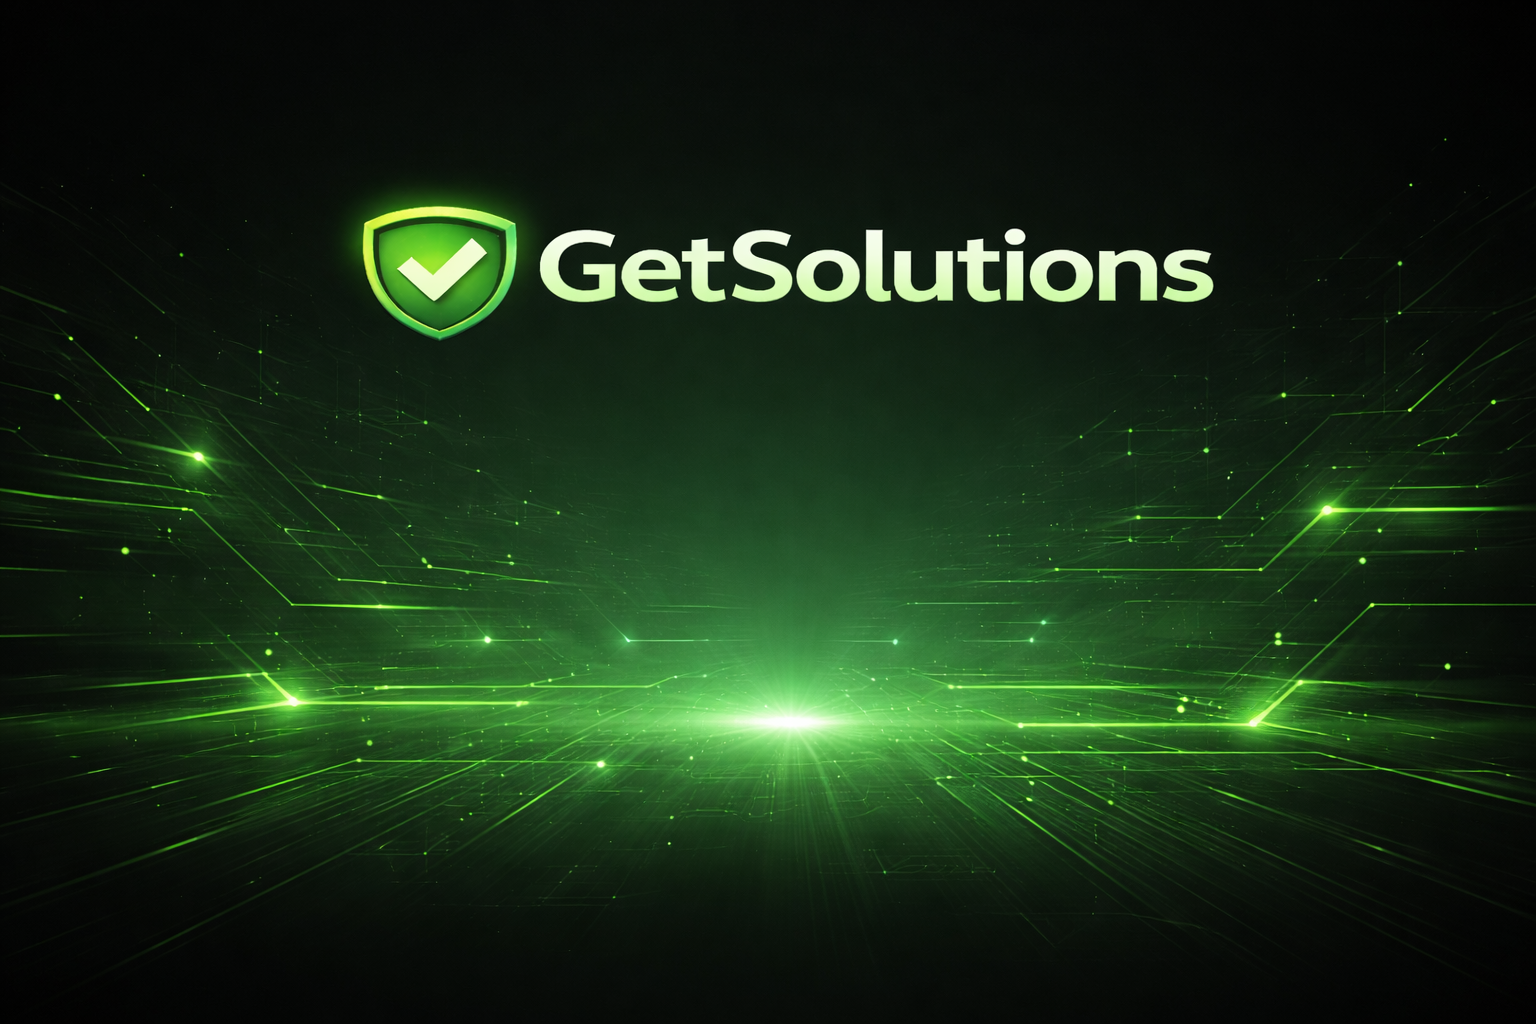
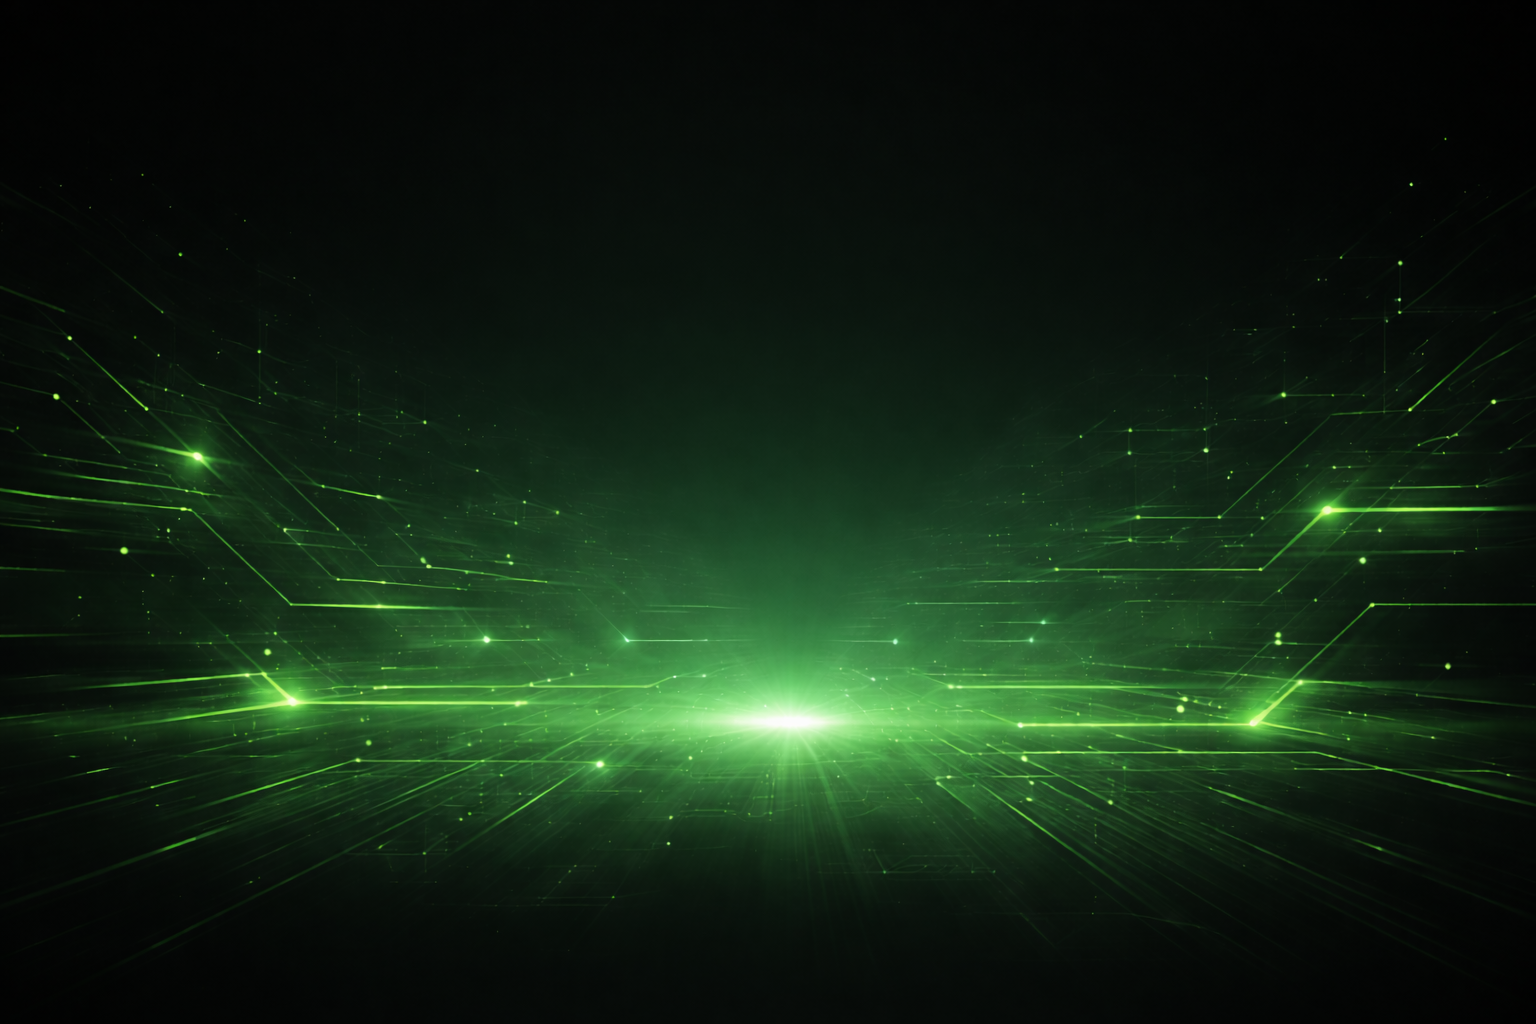
commit

Changed region(s): [[0.2188, 0.1562, 0.8125, 0.3438], [0.1562, 0.6562, 0.1875, 0.6875]]

diff --git a/app/page.tsx b/app/page.tsx
@@ -8,44 +8,83 @@ export default function Home() {
   return (
     <main className="min-h-screen overflow-x-hidden">
       {/* Hero Section */}
-      <section className="relative overflow-hidden flex items-end min-h-[420px] sm:min-h-[520px] lg:min-h-[640px]">
-        {/* Hero Image */}
-        <div className="absolute inset-0">
-          <Image
-            src="/hero.png"
-            alt="GetSolutions Hero"
-            fill
-            className="object-cover"
-            priority
-            sizes="100vw"
-          />
-          <div className="absolute inset-0 bg-black/50" aria-hidden="true" />
-        </div>
-
-        {/* Overlay Content */}
-        <div className="relative z-10 w-full">
-          <div className="mx-auto max-w-6xl px-4 sm:px-6 pb-6 sm:pb-12 lg:pb-16 w-full">
-            <div className="text-center animate-scale-in space-y-4 sm:space-y-6 flex flex-col items-center">
-              <p className="text-base sm:text-xl md:text-2xl text-white max-w-3xl mx-auto drop-shadow-lg">
-                Powerful apps crafted for seamless web and mobile experiences
-              </p>
-              <p className="text-sm sm:text-lg text-white drop-shadow-lg max-w-2xl mx-auto">
-                Privacy-focused. Feature-rich. Always improving.
-              </p>
-
-              <div className="flex flex-col sm:flex-row gap-4 justify-center items-center pt-2 sm:pt-4 w-full max-w-2xl mx-auto">
-                <a
-                  href="#apps"
-                  className="group w-[55%] min-w-[200px] max-w-xs sm:w-auto px-6 py-3 text-base sm:px-8 sm:py-4 sm:text-lg bg-grass-600 text-white font-semibold rounded-lg hover:bg-grass-500 transition-all duration-300 hover:scale-105 hover:shadow-lg border-2 border-grass-700 text-center"
-                >
-                  Explore Our Apps
-                </a>
-                <a
-                  href="#about"
-                  className="w-[55%] min-w-[200px] max-w-xs sm:w-auto px-6 py-3 text-base sm:px-8 sm:py-4 sm:text-lg bg-white text-gray-900 font-semibold rounded-lg hover:bg-gray-50 transition-all duration-300 border-2 border-grass-500 hover:border-grass-600 text-center"
-                >
-                  Learn More
-                </a>
+      <section className="bg-gradient-to-b from-gray-950 via-gray-900 to-gray-900 text-white">
+        <div className="mx-auto flex max-w-6xl flex-col gap-12 px-4 py-16 sm:px-6 lg:flex-row lg:items-center lg:py-24">
+          <div className="w-full space-y-6 lg:w-1/2">
+            <span className="inline-flex items-center gap-2 rounded-full border border-grass-500/50 bg-grass-600/10 px-3 py-1 text-xs font-semibold uppercase tracking-wide text-grass-100">
+              <span className="h-2 w-2 rounded-full bg-grass-400 animate-pulse" aria-hidden="true" />
+              Purpose-built Android utilities
+            </span>
+            <h1 className="text-4xl font-black leading-tight sm:text-5xl lg:text-6xl">
+              Hero experiences that stay sharp on every screen.
+            </h1>
+            <p className="text-base text-gray-200 sm:text-lg">
+              GetSolutions delivers privacy-first tools that look as good on desktop monitors as they do on handheld devices.
+              No stretched imagery, no awkward layouts—just confident, utility-focused design.
+            </p>
+            <div className="grid grid-cols-1 gap-4 text-gray-100 sm:grid-cols-2">
+              <div className="flex items-start gap-3 rounded-2xl border border-white/10 bg-white/5 p-4">
+                <div className="flex h-12 w-12 items-center justify-center rounded-full bg-grass-500/20 text-grass-300">
+                  <svg className="h-6 w-6" fill="none" stroke="currentColor" viewBox="0 0 24 24">
+                    <path strokeLinecap="round" strokeLinejoin="round" strokeWidth={1.5} d="M5 13l4 4L19 7" />
+                  </svg>
+                </div>
+                <div>
+                  <p className="font-semibold text-white">Pixel-perfect scaling</p>
+                  <p className="text-sm text-gray-300">Hero imagery is framed to keep its clarity across breakpoints.</p>
+                </div>
+              </div>
+              <div className="flex items-start gap-3 rounded-2xl border border-white/10 bg-white/5 p-4">
+                <div className="flex h-12 w-12 items-center justify-center rounded-full bg-grass-500/20 text-grass-300">
+                  <svg className="h-6 w-6" fill="none" stroke="currentColor" viewBox="0 0 24 24">
+                    <path strokeLinecap="round" strokeLinejoin="round" strokeWidth={1.5} d="M12 8c-1.657 0-3 .895-3 2s1.343 2 3 2 3 .895 3 2-1.343 2-3 2m0-8c1.11 0 2.08.402 2.599 1M12 8V7m0 1v8m0 0v1m0-1c-1.11 0-2.08-.402-2.599-1M21 12a9 9 0 11-18 0 9 9 0 0118 0z" />
+                  </svg>
+                </div>
+                <div>
+                  <p className="font-semibold text-white">Transparent value</p>
+                  <p className="text-sm text-gray-300">Fair pricing, no lock-ins, and thoughtful design touches.</p>
+                </div>
+              </div>
+            </div>
+            <div className="flex flex-col gap-4 pt-2 sm:flex-row">
+              <a
+                href="#apps"
+                className="group w-full rounded-xl border-2 border-grass-500 bg-grass-600 px-8 py-4 text-center text-lg font-semibold text-white transition-all duration-300 hover:translate-y-0.5 hover:bg-grass-500 hover:shadow-xl sm:w-auto"
+              >
+                Explore our apps
+              </a>
+              <a
+                href="#about"
+                className="w-full rounded-xl border-2 border-white/20 bg-white/5 px-8 py-4 text-center text-lg font-semibold text-white transition-all duration-300 hover:border-white/40 hover:bg-white/10 sm:w-auto"
+              >
+                See how we build
+              </a>
+            </div>
+          </div>
+          <div className="w-full lg:w-1/2">
+            <div className="relative mx-auto w-full max-w-xl">
+              <div className="absolute inset-0 -z-10 rounded-[32px] bg-gradient-to-r from-grass-500/30 via-grass-400/20 to-transparent blur-3xl" aria-hidden="true" />
+              <div className="relative rounded-[32px] border border-white/10 bg-white/5 p-3 shadow-2xl backdrop-blur-xl">
+                <div className="relative aspect-[5/3] w-full overflow-hidden rounded-3xl">
+                  <Image
+                    src="/hero.png"
+                    alt="GetSolutions Hero"
+                    fill
+                    className="object-cover"
+                    priority
+                    sizes="(min-width: 1024px) 520px, 90vw"
+                  />
+                </div>
+                <div className="mt-5 flex items-center justify-between text-sm text-gray-200">
+                  <div>
+                    <p className="font-semibold text-white">Responsive by design</p>
+                    <p className="text-xs text-gray-400">Optimized for tablets, phones, and wide displays.</p>
+                  </div>
+                  <div className="text-right">
+                    <p className="text-2xl font-bold text-grass-300">50K+</p>
+                    <p className="text-[11px] uppercase tracking-wide text-gray-400">installs</p>
+                  </div>
+                </div>
               </div>
             </div>
           </div>
